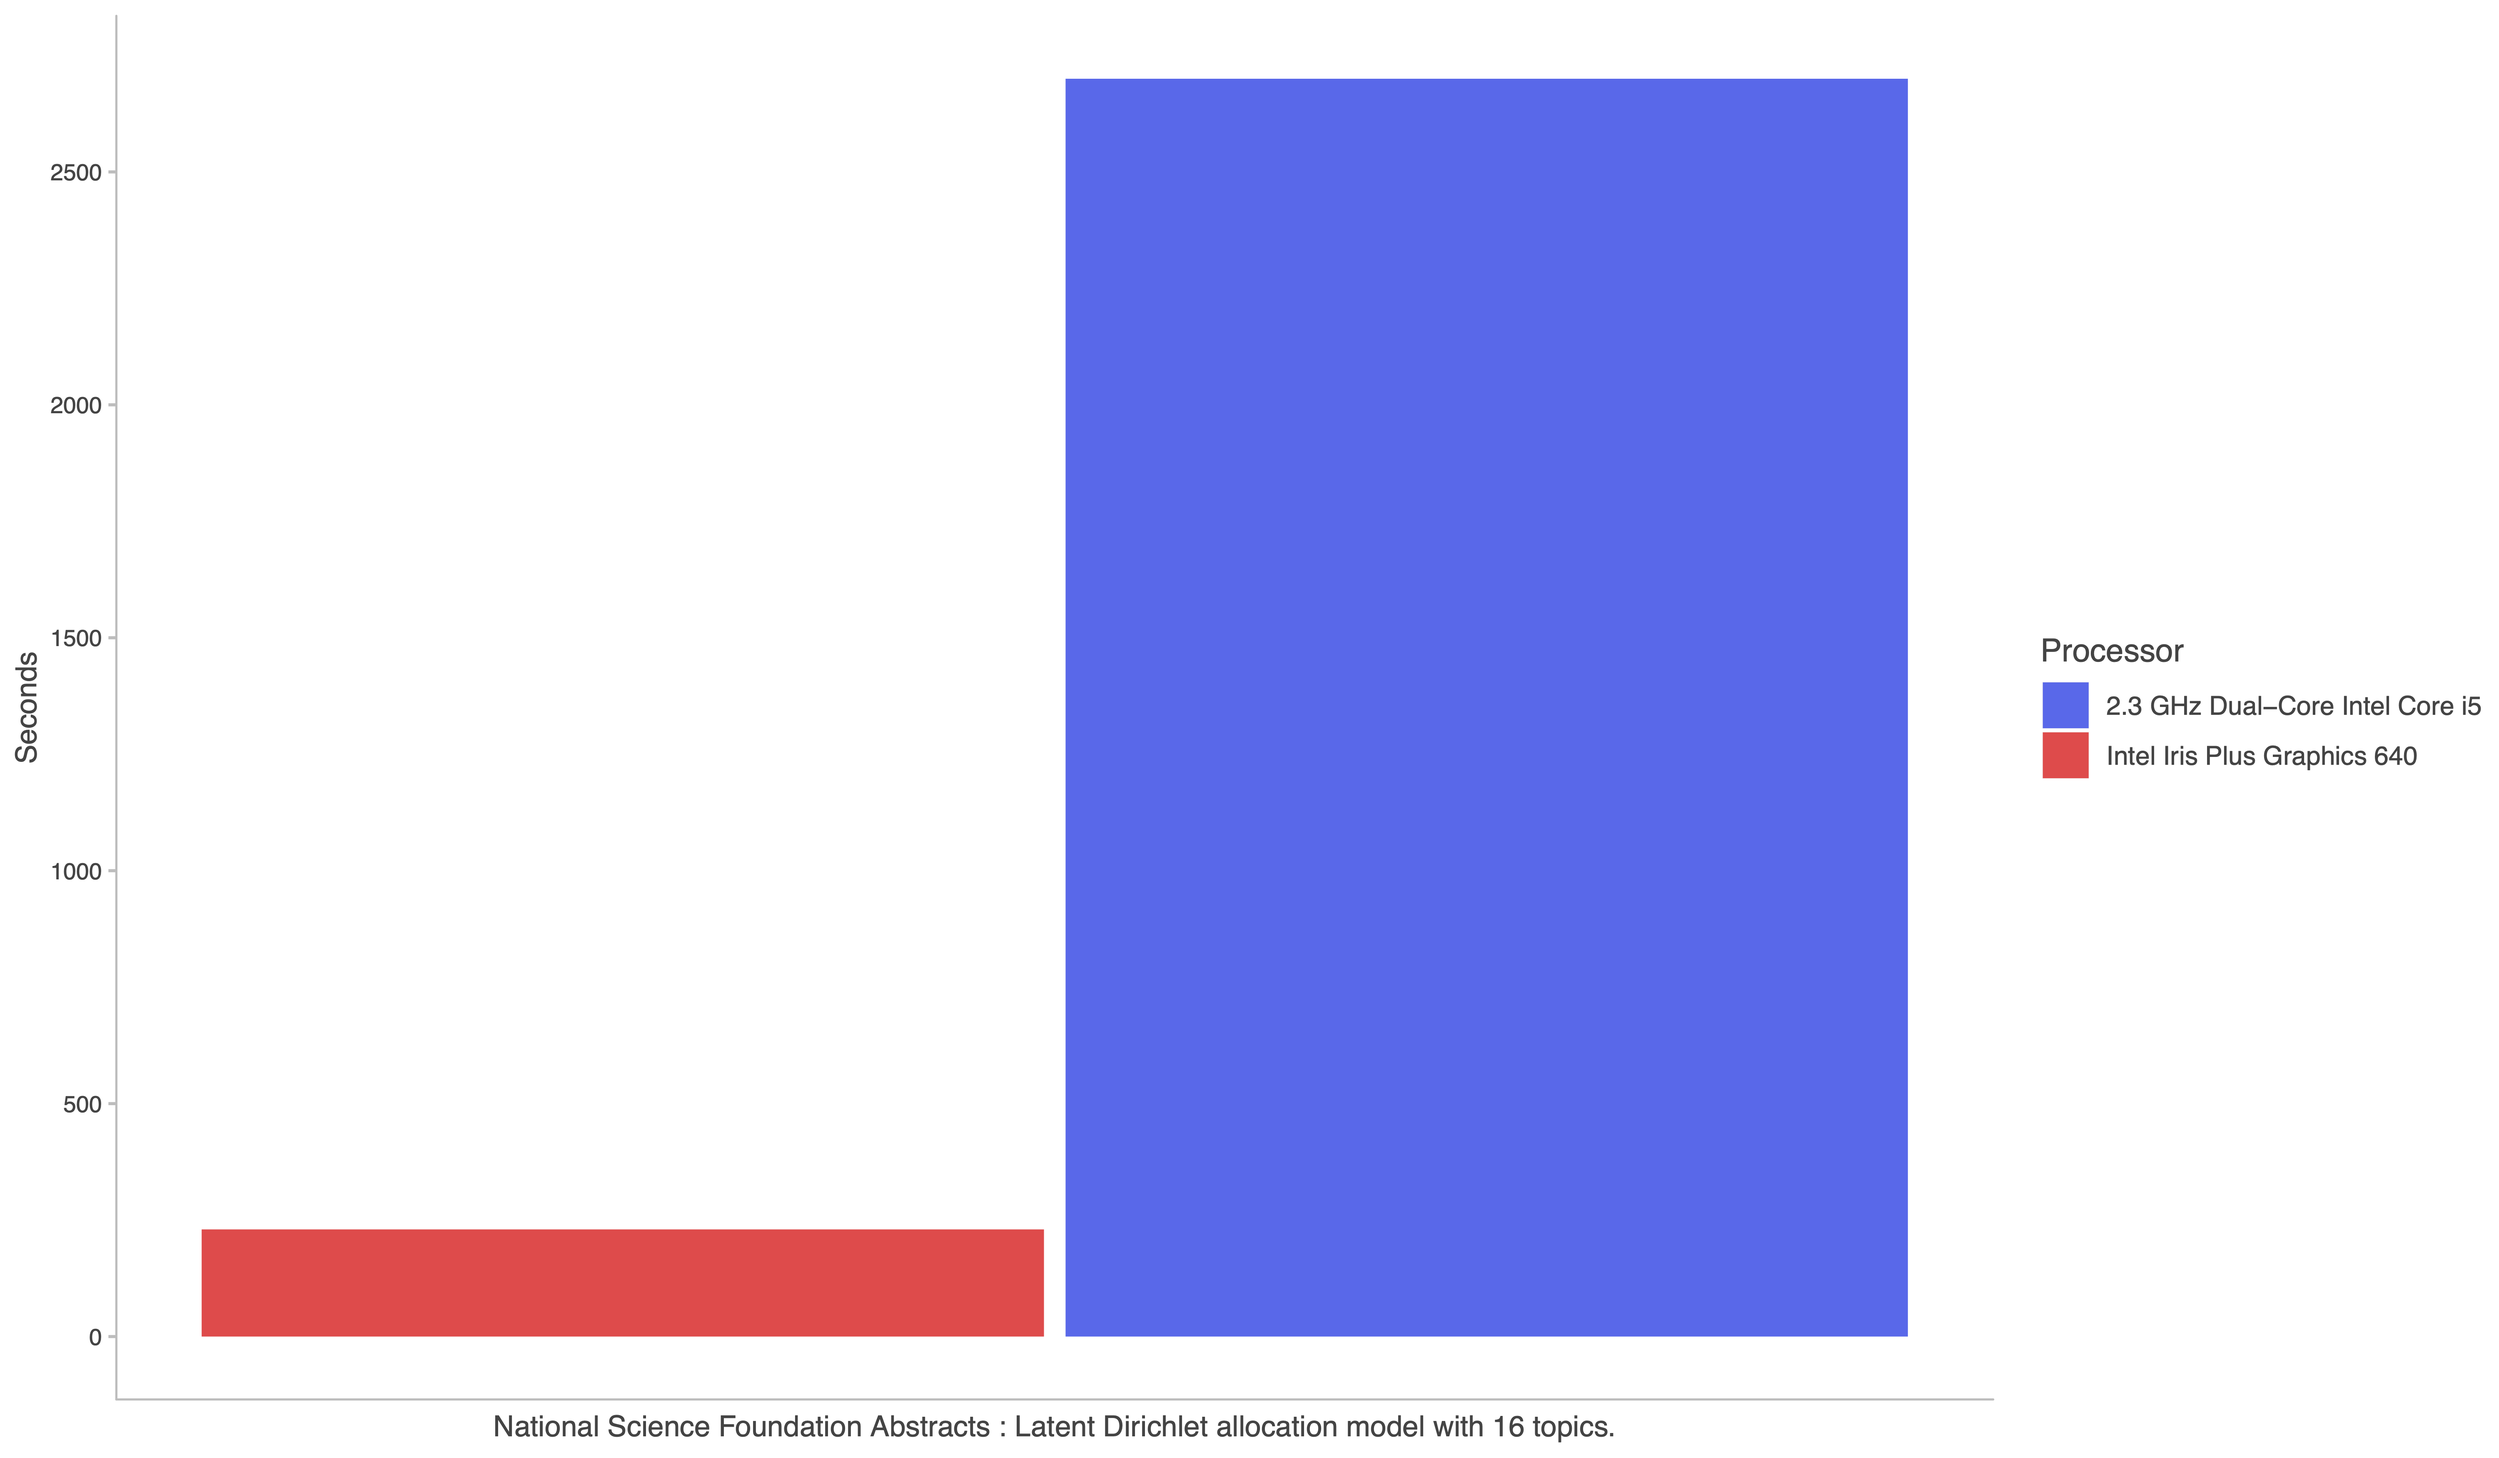
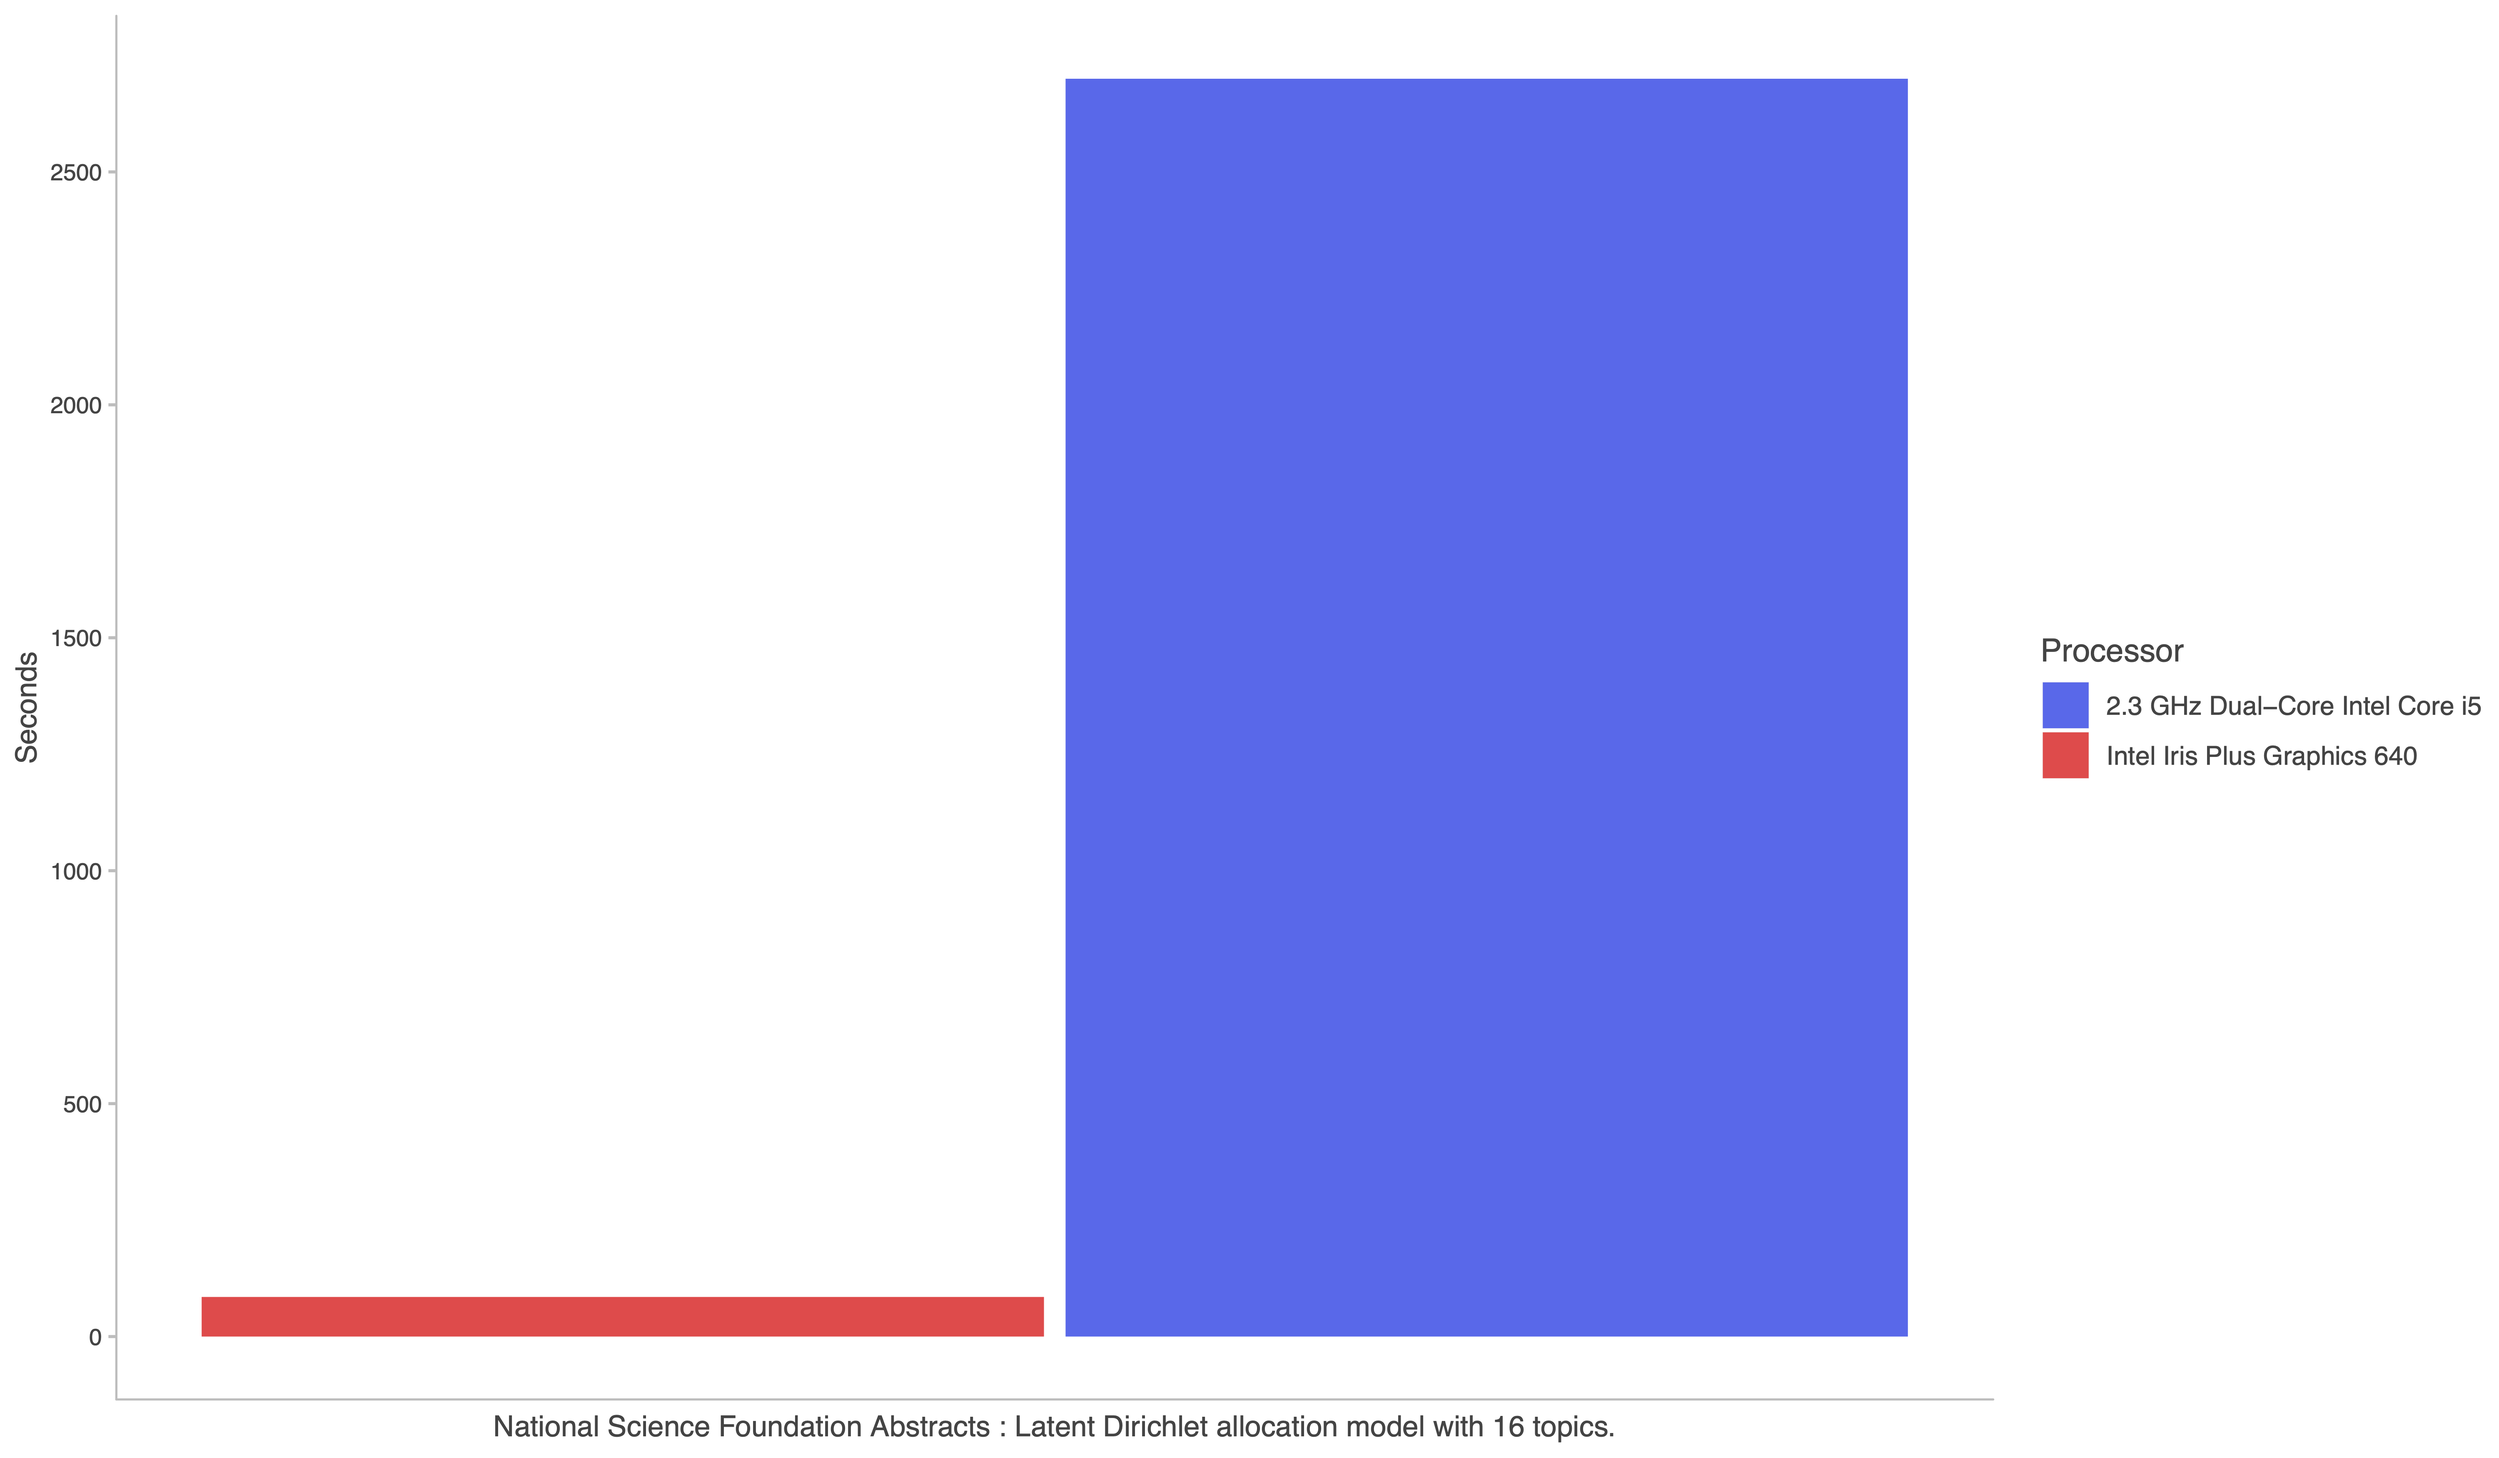
up

Changed region(s): [[0.0623, 0.8409, 0.4363, 0.9031]]

diff --git a/README.md b/README.md
@@ -117,7 +117,7 @@ fixcorp!(corp; pad_corp=true)
 
 Padding a corpus will ensure that any documents which contain vocab or user keys not in the vocab or user dictionaries are not removed. Instead, generic vocab and user keys will be added as necessary to the vocab and user dictionaries (resp.).
 
-In addition, if you would like to preserve term order in your documents, then you should avoid condesing your corpus.
+In addition, if you would like to preserve term order in your documents, then you should refrain from condesing your corpus.
 
 For example,
 
@@ -605,19 +605,19 @@ model = LDA(corp, 16)
 
 ### training...
 
-### 156.591258 seconds (231.34 M allocations: 25.416 GiB, 37.82% gc time)
+### 120.928241 seconds (130.06 M allocations: 22.745 GiB, 3.60% gc time)
 ### On an Intel Iris Plus Graphics 640 1536 MB GPU.
 ```
 
-This algorithm just crunched through a 16 topic 128,804 document topic model in just over 2.5 minutes.
+This algorithm just crunched through a 16 topic 128,804 document topic model in 2 minutes.
 
-**Important.** Notice that we didn't check the ELBO at all during training. While you can check the ELBO if you wish, it's recommended that you do so infrequently since checking the ELBO for GPU models requires expensive transfers between GPU and CPU memory.
+**Important.** Notice that we didn't check the ELBO at all during training. While you can check the ELBO if you wish, it's recommended that you do so infrequently since checking the ELBO for GPU models requires expensive memory allocations on the CPU.
 
-Here is the benchmark of our above model against the equivalent model run on the CPU,
+Here is the benchmark of our above model against the equivalent model run on the CPU (excluding fixed costs and only timing the coordinate ascent algorithm),
 
 ![GPU Benchmark](https://github.com/ericproffitt/TopicModelsVB.jl/blob/version-1.x/images/ldabar.png)
 
-As we can see, running the LDA model on the GPU is approximatey 1800% faster than running it on the CPU.
+As we can see, running the LDA model on the GPU is approximatey 3200% faster than running it on the CPU.
 
 Note, it's expected that your computer will lag when training on the GPU, since you're effectively siphoning off its rendering resources to fit your model.
 
